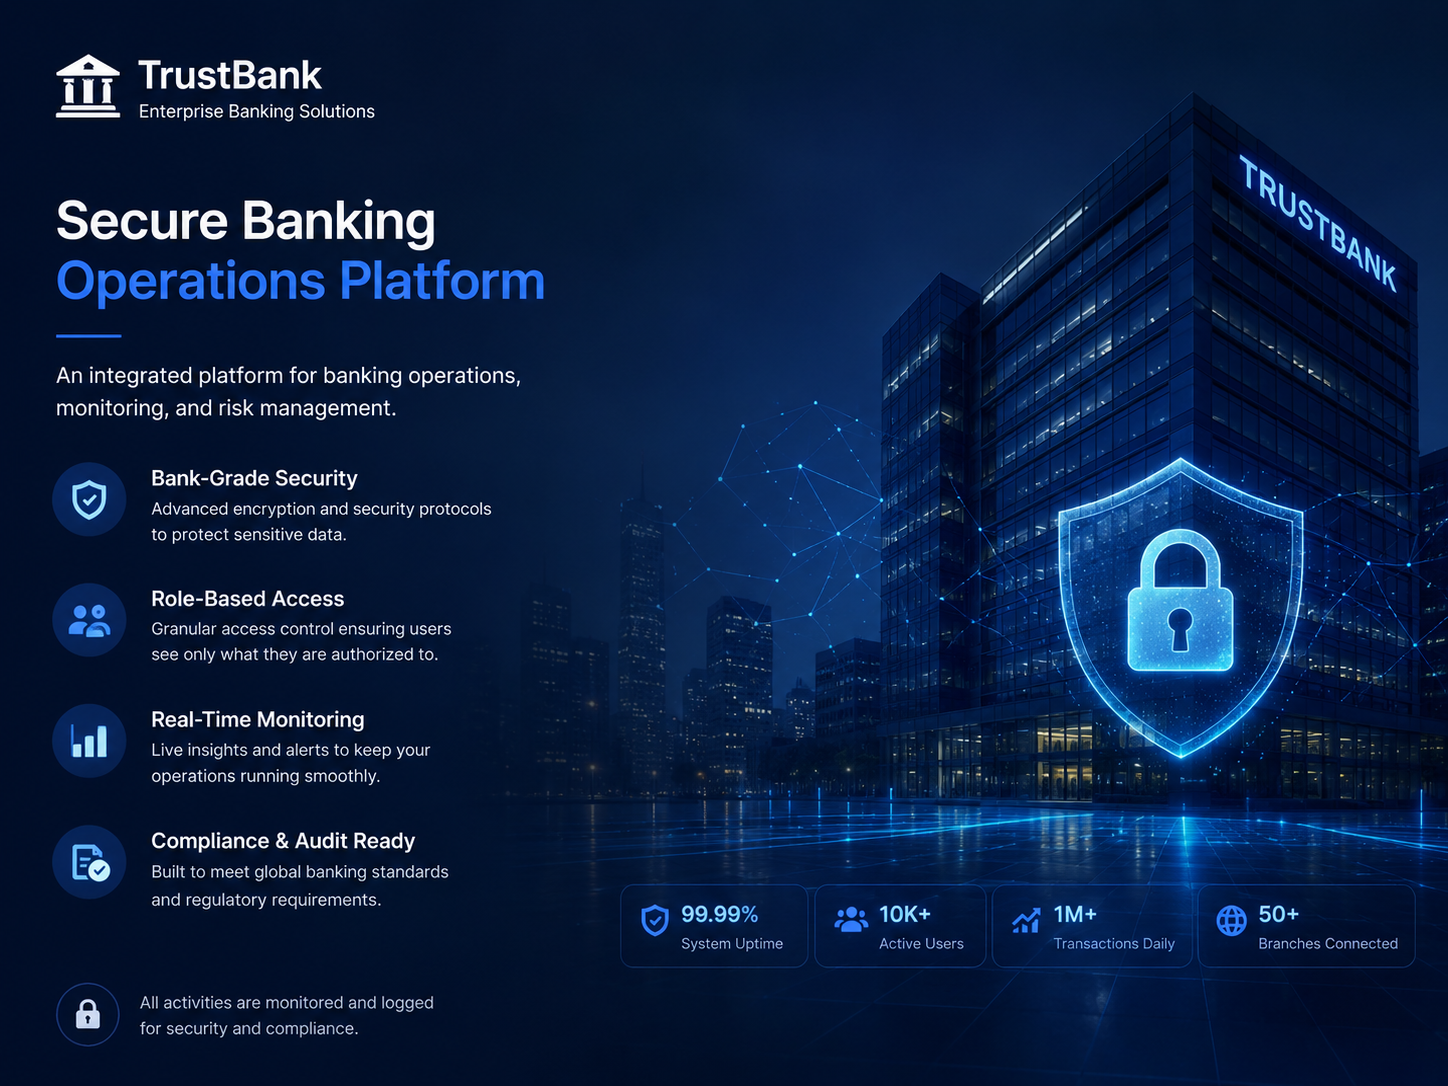
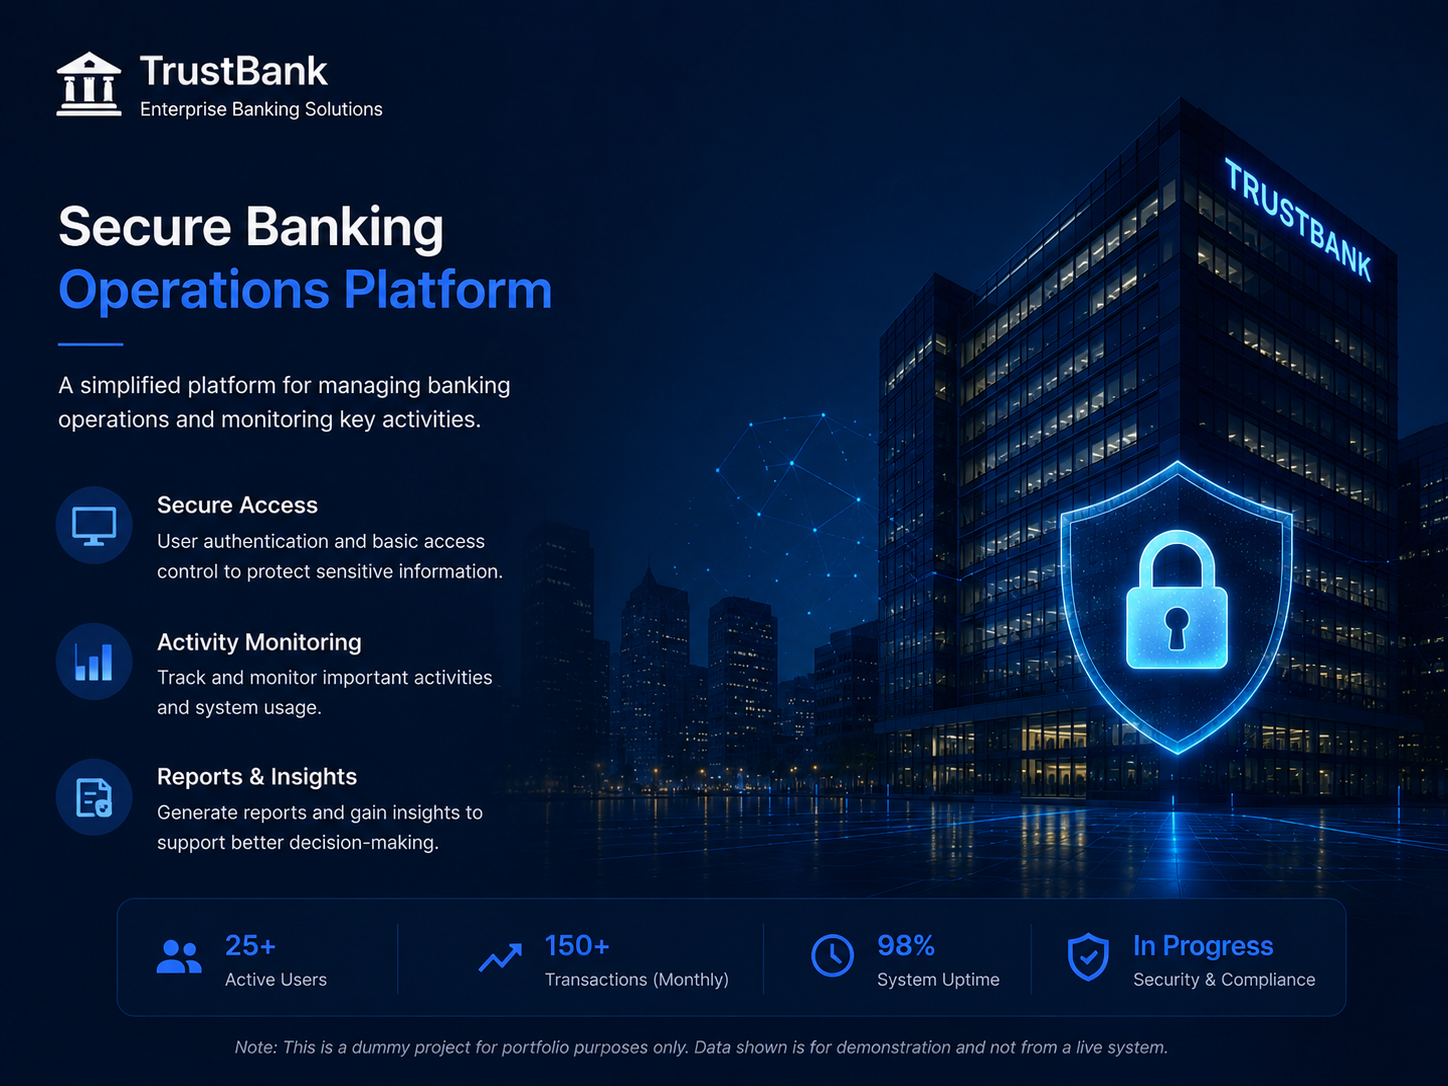
making UI responsive

Changed region(s): [[0.0311, 0.0912, 1.0, 1.0], [0.0311, 0.1823, 0.404, 0.395], [0.0311, 0.0304, 0.2797, 0.1215]]

diff --git a/src/app/features/auth/pages/login/login.component.scss b/src/app/features/auth/pages/login/login.component.scss
@@ -89,3 +89,112 @@
     justify-content: space-between;
     width:706px;
 }
+
+
+/* ===================== */
+/* Tablet */
+/* ===================== */
+@media (max-width: 992px) {
+  .login-wrapper {
+    flex-direction: column;
+  }
+
+  
+  .left-panel {
+    height: 250px;
+  }
+
+  .left-panel img {
+    height: 250px;
+    object-fit: cover;
+  }
+
+  .right-panel {
+    padding: 30px 20px;
+  }
+
+  .login-card {
+    max-width: 500px;
+  }
+}
+
+/* ===================== */
+/* Mobile */
+/* ===================== */
+// @media (max-width: 600px) {
+//   .login-wrapper {
+//     flex-direction: column;
+//   }
+
+//  .left-panel {
+//   display: block;
+//   height: 180px;
+// }
+
+// .left-panel img {
+//   width: 100%;
+//   height: 180px;
+//   object-fit: cover;
+// }
+//   .right-panel {
+//     width: 100%;
+//     min-height: 100vh;
+//     padding: 20px 16px;
+//     align-items: center;
+//   }
+
+//   .login-card {
+//     width: 100%;
+//     max-width: 100%;
+//     padding: 24px 16px;
+//     border-radius: 12px;
+//   }
+
+//   .card-header h1 {
+//     font-size: 28px;
+//     text-align: center;
+//   }
+
+//   .card-header p {
+//     font-size: 14px;
+//     text-align: center;
+//   }
+
+//   .footer-links {
+//     text-align: center;
+//     margin-top: 20px;
+//     font-size: 12px;
+//   }
+// }
+
+
+/* Mobile */
+@media (max-width: 600px) {
+  .login-wrapper {
+    flex-direction: column;
+    min-height: 100vh;
+  }
+
+  .left-panel {
+    width: 100%;
+    flex: none;
+  }
+
+  .left-panel img {
+    width: 100%;
+    height: auto;      /* Shows the complete image */
+    display: block;
+    object-fit: contain;
+  }
+
+  .right-panel {
+    width: 100%;
+    padding: 20px 16px;
+    box-sizing: border-box;
+  }
+
+  .login-card {
+    width: 100%;
+    max-width: 100%;
+  }
+}

diff --git a/src/app/core/components/summary-card-loader/summary-card-loader.component.scss b/src/app/core/components/summary-card-loader/summary-card-loader.component.scss
@@ -1,0 +1,63 @@
+
+.summary-card-loader {
+  display: flex;
+  align-items: center;
+  gap: 16px;
+  padding: 20px;
+  border-radius: 16px;
+  background: #fff;
+  border: 1px solid #edf2f7;
+  box-shadow: 0 4px 12px rgba(0, 0, 0, 0.05);
+  min-height: 190px;
+}
+
+.loader-icon {
+  width: 56px;
+  height: 56px;
+  border-radius: 50%;
+}
+
+.loader-content {
+  flex: 1;
+}
+
+.loader-title {
+  width: 120px;
+  height: 14px;
+  border-radius: 4px;
+  margin-bottom: 16px;
+}
+
+.loader-value {
+  width: 90px;
+  height: 28px;
+  border-radius: 6px;
+  margin-bottom: 18px;
+}
+
+.loader-footer {
+  width: 150px;
+  height: 12px;
+  border-radius: 4px;
+}
+
+.shimmer {
+  background: linear-gradient(
+    90deg,
+    #f1f5f9 25%,
+    #e2e8f0 50%,
+    #f1f5f9 75%
+  );
+  background-size: 300% 100%;
+  animation: shimmer 1.4s infinite linear;
+}
+
+@keyframes shimmer {
+  0% {
+    background-position: 300% 0;
+  }
+
+  100% {
+    background-position: -300% 0;
+  }
+}

diff --git a/src/app/core/components/summary-card-loader/summary-card-loader.component.spec.ts b/src/app/core/components/summary-card-loader/summary-card-loader.component.spec.ts
@@ -1,0 +1,22 @@
+import { ComponentFixture, TestBed } from '@angular/core/testing';
+
+import { SummaryCardLoaderComponent } from './summary-card-loader.component';
+
+describe('SummaryCardLoaderComponent', () => {
+  let component: SummaryCardLoaderComponent;
+  let fixture: ComponentFixture<SummaryCardLoaderComponent>;
+
+  beforeEach(async () => {
+    await TestBed.configureTestingModule({
+      imports: [SummaryCardLoaderComponent],
+    }).compileComponents();
+
+    fixture = TestBed.createComponent(SummaryCardLoaderComponent);
+    component = fixture.componentInstance;
+    await fixture.whenStable();
+  });
+
+  it('should create', () => {
+    expect(component).toBeTruthy();
+  });
+});

diff --git a/src/app/features/auth/pages/login/login.component.html b/src/app/features/auth/pages/login/login.component.html
@@ -45,7 +45,7 @@
 
     <!-- SECURITY CARD -->
 
-    <mat-card class="security-card">
+    <!-- <mat-card class="security-card">
 
       <div class="security-left">
 
@@ -75,19 +75,19 @@
 
       </div>
 
-    </mat-card>
+    </mat-card> -->
 
     <!-- FOOTER -->
 
     <div class="footer-links">
 
-      <div class="footer-left">
+      <!-- <div class="footer-left">
            <span>
         © 2025 TrustBank. All rights reserved.
       </span>
-      </div>
+      </div> -->
      
-      <div class="links footer-right">
+      <!-- <div class="links footer-right">
 
         <a href="#">Security Policy</a> |
 
@@ -95,7 +95,7 @@
 
         <a href="#">Support</a>
 
-      </div>
+      </div> -->
       
 
     </div>

diff --git a/src/app/features/dashboard/pages/dashboard-home/dashboard-home.component.html b/src/app/features/dashboard/pages/dashboard-home/dashboard-home.component.html
@@ -6,15 +6,21 @@
 
   <!--TO SHOW SUMMARY CARD-->
   <div class="card-grid">
-    @for(card of 
-    (transactionsSummaryCards$ | async) ?? [];
+     @if (transactionsSummaryCards$ | async; as cards) {
+    @for(card of cards;
     track card)
     {
          <app-summary-card
       [card]="card">
     </app-summary-card>
     }
-   
+  }
+   @else {
+
+    @for (item of [1,2,3,4,5]; track item) {
+      <app-summary-card-loader></app-summary-card-loader>
+    }
+  }
   </div>
 
   <!--TO SHOW LIVE COUNTER-->

diff --git a/src/app/core/components/summary-card-loader/summary-card-loader.component.html b/src/app/core/components/summary-card-loader/summary-card-loader.component.html
@@ -1,0 +1,11 @@
+<div class="summary-card-loader">
+  <div class="loader-icon shimmer"></div>
+
+  <div class="loader-content">
+    <div class="loader-title shimmer"></div>
+
+    <div class="loader-value shimmer"></div>
+
+    <div class="loader-footer shimmer"></div>
+  </div>
+</div>

diff --git a/src/app/core/components/summary-card-loader/summary-card-loader.component.ts b/src/app/core/components/summary-card-loader/summary-card-loader.component.ts
@@ -1,0 +1,9 @@
+import { Component } from '@angular/core';
+
+@Component({
+  selector: 'app-summary-card-loader',
+  imports: [],
+  templateUrl: './summary-card-loader.component.html',
+  styleUrl: './summary-card-loader.component.scss',
+})
+export class SummaryCardLoaderComponent {}

diff --git a/src/app/features/auth/components/login-form/login-form.component.ts b/src/app/features/auth/components/login-form/login-form.component.ts
@@ -31,13 +31,13 @@ export class LoginFormComponent{
 
   //LOGIN FORM INITIALIZED
   loginFormGroup = this.fb.nonNullable.group({
-  userName: ['', Validators.required],
-  password: ['', Validators.required]
+  userName: ['aaravsharma', Validators.required],
+  password: ['123', Validators.required]
 });
 
 //OTP FORM INITIALIZED
 otpFormGroup = this.fb.group({
-  otp: ['', Validators.required]
+  otp: ['998540', Validators.required]
 });
 
 

diff --git a/src/app/features/dashboard/pages/dashboard-home/dashboard-home.component.ts b/src/app/features/dashboard/pages/dashboard-home/dashboard-home.component.ts
@@ -18,12 +18,13 @@ import { Transaction } from '../../../transactions/models/transaction.model';
 import { RiskLevel } from '../../models/risk-level.model';
 import { TransactionPage } from '../../../transactions/models/transaction-page';
 import { toObservable, toSignal } from '@angular/core/rxjs-interop';
+import { SummaryCardLoaderComponent } from '../../../../core/components/summary-card-loader/summary-card-loader.component';
 
   
 
 @Component({
   selector: 'app-dashboard-home',
-  imports: [ CommonModule,DashboardHeaderComponent, RiskChartComponent, ChannelBreakdownComponent, TransactionChartComponent, SummaryCardComponent, LiveCounterComponent, TransactionSummaryComponent, AlertsComponent],
+  imports: [ CommonModule,DashboardHeaderComponent, RiskChartComponent, ChannelBreakdownComponent, TransactionChartComponent, SummaryCardComponent, LiveCounterComponent, TransactionSummaryComponent, AlertsComponent,SummaryCardLoaderComponent],
   templateUrl: './dashboard-home.component.html',
   styleUrl: './dashboard-home.component.scss',
 })